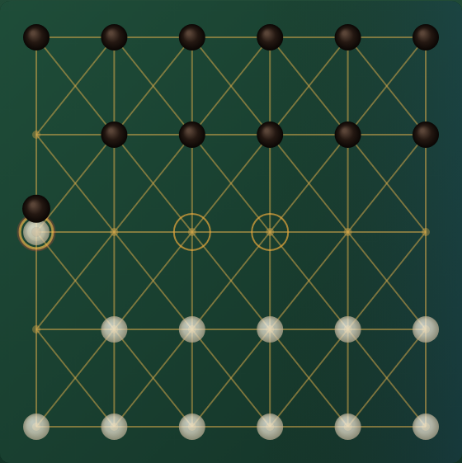
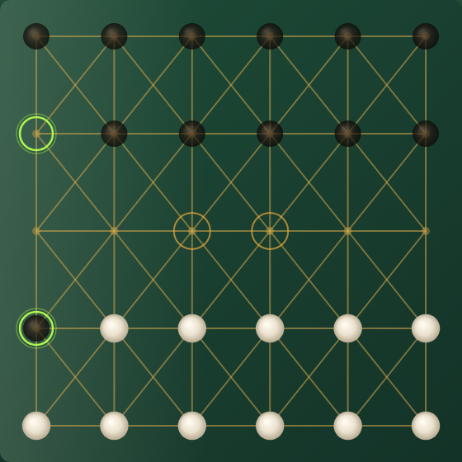
Coach Video 1: draw appendix, panel copy, prompts, and doc sync (good checkpoint).

diff --git a/PROJECTS/SmartBeads/src/playtest/web/feature/CoachVideoScript.ts b/PROJECTS/SmartBeads/src/playtest/web/feature/CoachVideoScript.ts
@@ -50,7 +50,7 @@ export const COACH_VIDEO_RESIGN_SEGMENT_START_MS =
   COACH_VIDEO_WIN_SEGMENT_START_MS + COACH_WIN_SEGMENT_DURATION_MS;
 
 export const COACH_RESIGN_SPEECH_TEXT =
-  'Resign. If a player resigns and the opponent declines, the resigning player loses. If the opponent agrees, it is a draw.';
+  'Resign. If a player resigns and the opponent declines, the resigning player loses.';
 
 export const COACH_RESIGN_DECLINED_CONGRATS_SPEECH =
   'Black bead won as white bead resign got declined.';
@@ -84,9 +84,32 @@ export const COACH_RESIGN_SEGMENT_DURATION_MS =
   + COACH_RESIGN_CONGRATS_PHASE_MS
   + 1_000;
 
+export const COACH_VIDEO_DRAW_SEGMENT_START_MS =
+  COACH_VIDEO_RESIGN_SEGMENT_START_MS + COACH_RESIGN_SEGMENT_DURATION_MS;
+
+export const COACH_DRAW_SPEECH_TEXT =
+  'Draw. If the opponent agrees to a resignation, the game is a draw.';
+
+export const COACH_DRAW_SPEECH_ESTIMATE_MS = estimateCoachSpeechMs(COACH_DRAW_SPEECH_TEXT);
+
+export const COACH_DRAW_POST_INTRO_MS = 500;
+
+export const COACH_DRAW_MODAL_PHASE_MS = 6_000;
+
+export const COACH_DRAW_RESULT_CUE_MS =
+  COACH_VIDEO_DRAW_SEGMENT_START_MS
+  + COACH_DRAW_SPEECH_ESTIMATE_MS
+  + COACH_DRAW_POST_INTRO_MS;
+
+export const COACH_DRAW_SEGMENT_DURATION_MS =
+  COACH_DRAW_SPEECH_ESTIMATE_MS
+  + COACH_DRAW_POST_INTRO_MS
+  + COACH_DRAW_MODAL_PHASE_MS
+  + 1_000;
+
 /** Total timeline length (ending appendix included). */
 export const COACH_VIDEO_DURATION_MS =
-  COACH_VIDEO_RESIGN_SEGMENT_START_MS + COACH_RESIGN_SEGMENT_DURATION_MS + 1_000;
+  COACH_VIDEO_DRAW_SEGMENT_START_MS + COACH_DRAW_SEGMENT_DURATION_MS + 1_000;
 
 /** @deprecated use COACH_VIDEO_RESIGN_SEGMENT_START_MS */
 const COACH_RESIGN_SEGMENT_START_MS = COACH_VIDEO_RESIGN_SEGMENT_START_MS;
@@ -170,7 +193,8 @@ export type CoachVideoCue =
         | 'resignDeclinedStatement'
         | 'resignDeclinedCongrats'
         | 'resignAgreedStatement'
-        | 'resignAgreedCongrats';
+        | 'resignAgreedCongrats'
+        | 'resignAcceptedDraw';
     }
   | { atMs: number; kind: 'closeResignOffer' }
   | { atMs: number; kind: 'showBanner'; title: string; durationMs?: number }
@@ -229,6 +253,7 @@ export const COACH_VIDEO_BASICS_SEGMENT_STARTS_MS = [0, 19_100, 37_940, 48_100] 
 export const COACH_VIDEO_ENDING_SEGMENT_STARTS_MS = [
   COACH_VIDEO_WIN_SEGMENT_START_MS,
   COACH_VIDEO_RESIGN_SEGMENT_START_MS,
+  COACH_VIDEO_DRAW_SEGMENT_START_MS,
 ] as const;
 export const COACH_VIDEO_SEGMENT_STARTS_MS = [
   ...COACH_VIDEO_BASICS_SEGMENT_STARTS_MS,
@@ -242,6 +267,7 @@ export const COACH_VIDEO_SEGMENT_BANNERS: CoachVideoSegmentBanner[] = [
   { atMs: 48_100, title: 'TRIPLE CAPTURE' },
   { atMs: COACH_VIDEO_WIN_SEGMENT_START_MS, title: 'WIN' },
   { atMs: COACH_VIDEO_RESIGN_SEGMENT_START_MS, title: 'RESIGN' },
+  { atMs: COACH_VIDEO_DRAW_SEGMENT_START_MS, title: 'DRAW' },
 ];
 
 const ANCHOR: readonly [number, Player][] = [[15, 'BLUE'], [19, 'BLUE']];
@@ -250,14 +276,15 @@ export const COACH_VIDEO: CoachVideoScript = {
   boardId: COACH_VIDEO_BOARD_ID,
   durationMs: COACH_VIDEO_DURATION_MS,
   title: 'How to play',
-  intro: '7-bead board. Watch three moves, three captures, then double and triple chain. Likewise you can capture four, five, or more beads in one turn while the chain stays open.',
+  intro: 'Smart Beads board. Watch move, capture, win, resign, and draw.',
   points: [
     'Move — slide one step to an empty node.',
     'Single capture — jump over one neighbour bead.',
     'Double capture — same bead jumps twice.',
     'Triple capture — same bead jumps three times; likewise four, five, or more while the chain stays open.',
     'Win — capture all opponent beads to win.',
-    'Resign — if a player resigns and the opponent declines, the resigning player loses; if the opponent agrees, it is a draw.',
+    'Resign — if a player resigns and the opponent declines, the resigning player loses.',
+    'Draw — if the opponent agrees to a resignation, the game is a draw.',
   ],
   keyframes: [
     kf(0, [[12, 'RED'], [16, 'RED'], [17, 'RED'], ...ANCHOR]),
@@ -291,6 +318,11 @@ export const COACH_VIDEO: CoachVideoScript = {
       [[4, 'RED'], [8, 'RED'], [12, 'BLUE'], [16, 'BLUE']],
       { RED: 2, BLUE: 2 },
     ),
+    kf(
+      COACH_VIDEO_DRAW_SEGMENT_START_MS,
+      [[4, 'RED'], [8, 'RED'], [12, 'BLUE'], [16, 'BLUE']],
+      { RED: 2, BLUE: 2 },
+    ),
   ],
   speeches: [
     {
@@ -304,6 +336,10 @@ export const COACH_VIDEO: CoachVideoScript = {
     {
       atMs: COACH_RESIGN_DECLINE_CONGRATS_MS,
       text: COACH_RESIGN_DECLINED_CONGRATS_SPEECH,
+    },
+    {
+      atMs: COACH_VIDEO_DRAW_SEGMENT_START_MS,
+      text: COACH_DRAW_SPEECH_TEXT,
     },
   ],
   highlights: [
@@ -386,6 +422,18 @@ export const COACH_VIDEO: CoachVideoScript = {
       atMs: COACH_RESIGN_DECLINE_CONGRATS_MS + COACH_RESIGN_CONGRATS_PHASE_MS,
       kind: 'hideModals',
     },
+    {
+      atMs: COACH_DRAW_RESULT_CUE_MS,
+      kind: 'result',
+      winner: 'DRAW',
+      captures: { RED: 2, BLUE: 2 },
+      snapshot: true,
+      phase: 'resignAcceptedDraw',
+    },
+    {
+      atMs: COACH_DRAW_RESULT_CUE_MS + COACH_DRAW_MODAL_PHASE_MS,
+      kind: 'hideModals',
+    },
   ],
   segmentBanners: COACH_VIDEO_SEGMENT_BANNERS,
 };
@@ -395,6 +443,20 @@ export function findCoachKeyframeAt(
   keyframes: readonly CoachVideoKeyframe[],
   _moves: readonly CoachVideoMove[] = [],
 ): CoachVideoKeyframe {
+  if (ms >= COACH_VIDEO_DRAW_SEGMENT_START_MS) {
+    let best = keyframes[0];
+    for (const entry of keyframes) {
+      if (
+        entry.atMs <= ms
+        && entry.atMs >= COACH_VIDEO_DRAW_SEGMENT_START_MS
+        && entry.atMs >= best.atMs
+      ) {
+        best = entry;
+      }
+    }
+    if (best.atMs >= COACH_VIDEO_DRAW_SEGMENT_START_MS) return best;
+  }
+
   if (ms >= COACH_VIDEO_RESIGN_SEGMENT_START_MS) {
     let best = keyframes[0];
     for (const entry of keyframes) {
@@ -485,6 +547,12 @@ export function coachSegmentBannerUntilMs(
   if (banner.title === 'RESIGN') {
     return Math.min(
       COACH_VIDEO_RESIGN_SEGMENT_START_MS + COACH_RESIGN_SPEECH_ESTIMATE_MS,
+      nextCap,
+    );
+  }
+  if (banner.title === 'DRAW') {
+    return Math.min(
+      COACH_VIDEO_DRAW_SEGMENT_START_MS + COACH_DRAW_SPEECH_ESTIMATE_MS,
       nextCap,
     );
   }

diff --git a/PROJECTS/SmartBeads/src/playtest/web/feature/__tests__/CoachVideoScript.test.ts b/PROJECTS/SmartBeads/src/playtest/web/feature/__tests__/CoachVideoScript.test.ts
@@ -26,7 +26,9 @@ import {
 
   COACH_VIDEO_WIN_SEGMENT_START_MS,
   COACH_VIDEO_RESIGN_SEGMENT_START_MS,
+  COACH_VIDEO_DRAW_SEGMENT_START_MS,
   COACH_RESIGN_DECLINE_CONGRATS_MS,
+  COACH_DRAW_RESULT_CUE_MS,
   COACH_WIN_CONGRATS_CUE_MS,
   COACH_WIN_CONGRATS_PHASE_MS,
   COACH_WIN_BOARD_PHASE_MS,
@@ -77,13 +79,13 @@ describe('CoachVideoScript Video 1 basics (7-bead)', () => {
 
     expect(COACH_VIDEO.moves).toHaveLength(11);
 
-    expect(COACH_VIDEO.speeches).toHaveLength(3);
+    expect(COACH_VIDEO.speeches).toHaveLength(4);
 
     expect(COACH_VIDEO.highlights).toHaveLength(11);
 
-    expect(COACH_VIDEO.points).toHaveLength(6);
+    expect(COACH_VIDEO.points).toHaveLength(7);
 
-    expect(COACH_VIDEO.segmentBanners).toHaveLength(6);
+    expect(COACH_VIDEO.segmentBanners).toHaveLength(7);
 
   });
 
@@ -163,6 +165,10 @@ describe('CoachVideoScript Video 1 basics (7-bead)', () => {
 
     });
 
+    expect(html).toContain('Smart Beads board');
+
+    expect(html).toMatch(/Watch move, capture, win, resign, and draw/i);
+
     expect(html).toContain('Triple capture');
 
     expect(html).toMatch(/four, five, or more/i);
@@ -171,7 +177,7 @@ describe('CoachVideoScript Video 1 basics (7-bead)', () => {
 
     expect(html).toMatch(/Resign —/);
 
-    expect(html).not.toMatch(/Draw —/);
+    expect(html).toMatch(/Draw —/);
 
   });
 
@@ -261,6 +267,8 @@ describe('CoachVideoScript Video 1 basics (7-bead)', () => {
 
     expect(coachSpeechForTime(COACH_RESIGN_DECLINE_CONGRATS_MS)).toMatch(/Black bead won/i);
 
+    expect(coachSpeechForTime(COACH_VIDEO_DRAW_SEGMENT_START_MS)).toMatch(/^Draw\./i);
+
   });
 
 
@@ -329,6 +337,28 @@ describe('CoachVideoScript Video 1 basics (7-bead)', () => {
 
 
 
+  it('draw segment reuses the balanced 2 vs 2 resign board', () => {
+    const draw = COACH_VIDEO.keyframes.find((k) => k.atMs === COACH_VIDEO_DRAW_SEGMENT_START_MS)!;
+    expect(draw.captures).toEqual({ RED: 2, BLUE: 2 });
+    expect(draw.occupants.filter((o) => o === 'RED')).toHaveLength(2);
+    expect(draw.occupants.filter((o) => o === 'BLUE')).toHaveLength(2);
+  });
+
+
+
+  it('resolves draw agreed cue after intro speech', () => {
+    const before = findCoachCueAtTime(COACH_DRAW_RESULT_CUE_MS - 100);
+    expect(before?.kind === 'result' && before?.phase === 'resignAcceptedDraw').toBe(false);
+    const drawCue = findCoachCueAtTime(COACH_DRAW_RESULT_CUE_MS + 100);
+    expect(drawCue?.kind).toBe('result');
+    if (drawCue?.kind === 'result') {
+      expect(drawCue.winner).toBe('DRAW');
+      expect(drawCue.phase).toBe('resignAcceptedDraw');
+    }
+  });
+
+
+
   it('resign segment reuses a balanced 2 vs 2 board for both demos', () => {
     const resign = COACH_VIDEO.keyframes.find((k) => k.atMs === COACH_VIDEO_ENDING_SEGMENT_STARTS_MS[1])!;
     expect(resign.captures).toEqual({ RED: 2, BLUE: 2 });
@@ -365,7 +395,7 @@ describe('CoachVideoScript Video 1 basics (7-bead)', () => {
 
     expect(formatCoachTime(0)).toBe('0:00');
 
-    expect(formatCoachTime(COACH_VIDEO_DURATION_MS)).toBe('1:43');
+    expect(formatCoachTime(COACH_VIDEO_DURATION_MS)).toBe('1:53');
 
   });
 

diff --git a/PROJECTS/SmartBeads/src/playtest/web/PlayController.ts b/PROJECTS/SmartBeads/src/playtest/web/PlayController.ts
@@ -560,6 +560,9 @@ export function bootstrapPlayShell(onReady?: () => void): void {
       if (phase === 'resignAgreedStatement') {
         resultTitle.textContent = 'RESIGNATION AGREED — DRAW';
         scoreLine = `${creamName} bead resigned; ${blackName} bead agreed. The game is a draw.`;
+      } else if (phase === 'resignAcceptedDraw') {
+        resultTitle.textContent = 'DRAW';
+        scoreLine = 'Black bead accepted resign.';
       } else if (phase === 'resignAgreedCongrats') {
         resultTitle.textContent = "WELL PLAYED! IT'S A DRAW";
         scoreLine = 'Draw — resignation agreed by both players.';
@@ -649,7 +652,7 @@ export function bootstrapPlayShell(onReady?: () => void): void {
         syncCoachVideoCue(cue);
       },
       onApplySegmentBanner: (banner) => {
-        if (banner && (banner.title === 'WIN' || banner.title === 'RESIGN')) {
+        if (banner && (banner.title === 'WIN' || banner.title === 'RESIGN' || banner.title === 'DRAW')) {
           const ms = coachVideoPlayer?.getTimeMs() ?? banner.atMs;
           clearMoveFeedback();
           applyCoachVideoKeyframe(

diff --git a/index.html b/index.html
@@ -46,7 +46,7 @@
         <div class="coach-video-controls">
           <button type="button" id="coach-play-btn" class="coach-video-btn">Play</button>
           <button type="button" id="coach-pause-btn" class="coach-video-btn is-hidden">Pause</button>
-          <input type="range" id="coach-scrub" class="coach-scrub" min="0" max="103323" value="0" step="100" aria-label="Coach video timeline" />
+          <input type="range" id="coach-scrub" class="coach-scrub" min="0" max="113088" value="0" step="100" aria-label="Coach video timeline" />
         </div>
         <div class="coach-voice-row">
           <span class="coach-speaking-label is-hidden" id="coach-speaking-label">Speaking…</span>

diff --git a/play-board.html b/play-board.html
@@ -18,7 +18,7 @@
         <div class="coach-video-controls">
           <button type="button" id="coach-play-btn" class="coach-video-btn">Play</button>
           <button type="button" id="coach-pause-btn" class="coach-video-btn is-hidden">Pause</button>
-          <input type="range" id="coach-scrub" class="coach-scrub" min="0" max="103323" value="0" step="100" aria-label="Coach video timeline" />
+          <input type="range" id="coach-scrub" class="coach-scrub" min="0" max="113088" value="0" step="100" aria-label="Coach video timeline" />
         </div>
         <div class="coach-voice-row">
           <span class="coach-speaking-label is-hidden" id="coach-speaking-label">Speaking…</span>

diff --git a/PROJECTS/SmartBeads/src/playtest/web/PlayHub.ts b/PROJECTS/SmartBeads/src/playtest/web/PlayHub.ts
@@ -30,7 +30,7 @@ function renderModePicker(boardId: ProductBoardId): string {
 function renderCoachPicker(): string {
   return `
     <div class="hub-mode-picker-title">Coach · Video 1 · 7-bead</div>
-    <p class="hub-coach-blurb">~1:30 SmartBeads coach video: moves, captures, then win, draw, and resign (by captured beads).</p>
+    <p class="hub-coach-blurb">~1:53 SmartBeads coach video: moves, captures, then win, resign, and draw.</p>
     <div class="hub-mode-actions">
       <button type="button" class="hub-mode-btn hub-mode-btn--coach" data-hub-action="coach">
         Start Coach

diff --git a/PROJECTS/SmartBeads/PROJECT_MAP_05P.md b/PROJECTS/SmartBeads/PROJECT_MAP_05P.md
@@ -117,9 +117,9 @@ Repo-root `index.html` is the Vite entry for the production play shell (`npm run
 Browser-based **shared play shell** rendered via Vite + TypeScript + canvas (`npm run web:smartbeads`). Board selection reads `BoardCatalog.ts`; only catalog entries with `playable: true` appear in the UI. Authoritative entry is the repository root `index.html`, not anything under `prototype/`.
 
 - **`main.ts`** — calls `bootstrapPlayShell()`.
-- **`PlayController.ts`** — left play panel (AI/human blocks, shot rings, match mm:ss), settings panel, timers, undo, honest AI, board `<select>`, start overlay (mode + START GAME), starter policy (human on Start; alternate on New game), result modal; canvas clicks through `FeatureSession.interpretClick`. **Coach mode:** watch-only ~48s video (play/pause/scrub); no board input.
-- **`PlayHub.ts`** — hub navigation; **Coach** sidebar + top card launches teaching video on 6×3×5 (`?coach=1` picker, `?coach=start` auto-launch).
-- **`feature/CoachVideoScript.ts`** — Video 1 basics on **7-bead** (~3 min): 3 slides, 3 single captures, double + triple chain; amber/lime highlight cues.
+- **`PlayController.ts`** — left play panel (AI/human blocks, shot rings, match mm:ss), settings panel, timers, undo, honest AI, board `<select>`, start overlay (mode + START GAME), starter policy (human on Start; alternate on New game), result modal; canvas clicks through `FeatureSession.interpretClick`. **Coach mode:** watch-only ~**1:53** video (play/pause/scrub); ending cues WIN / RESIGN / DRAW; no board input.
+- **`PlayHub.ts`** — hub navigation; **Coach** sidebar + top card launches teaching video on **7-bead · 4×5** (`?coach=1` picker, `?coach=start` auto-launch).
+- **`feature/CoachVideoScript.ts`** — Video 1 on **7-bead** (~**1:53**): basics + **WIN** / **RESIGN** / **DRAW** appendix; amber/lime highlights; scripted cues and TTS speeches.
 - **`feature/CoachVideoPlayer.ts`** — drives playback time, keyframe snaps, move animations, voice cues.
 - **`feature/CoachVoice.ts`** — browser TTS; mute and replay per segment.
 - **`feature/FeatureSession.ts`** — wraps `SmartBeadsEngine` with per-board `GameFeatureSettings`; turn interaction enforces selectable own beads, inert opponent beads, and landing-square capture execution. No 3-fold repetition in production.
@@ -222,6 +222,7 @@ Other files may exist under `VISION/` for personal use; they are not part of rep
 |------|------|
 | `AGENT_RULE_05P.md` | Canonical workflow, safety, Knowledge Classification, Engineering Principles |
 | `CURSOR_PROMPT_01.md` | Cursor implementer — code execution in this repository |
+| `SHEKHAR_PROMPT_01.md` | Human-side scope phrasing (narrow asks; avoid global words like “fix all mess”) |
 | `AGENT_ARCHITECT_01P.md` | In-repo architect agent (plan/review; no direct edits) |
 
 Single-owner rule — canonical text lives in `AGENT_RULE_05P.md` only:

diff --git a/PROJECTS/SmartBeads/GPT_PROJECT_AUDIT_05P.md b/PROJECTS/SmartBeads/GPT_PROJECT_AUDIT_05P.md
@@ -32,7 +32,7 @@ Enforcement text for Cursor agents lives in `.cursor/rules/smartbeads-core.mdc`,
 |--------------|-----------|----------------|
 | **7-board core** | `allBoards.smoke.test.ts`, `Board*.test.ts` (×7), `FeatureSession.turnControl.test.ts`, `v1GeometryCaptureAudit.test.ts` | All 7 product boards: legal select, Medium AI reply, reset/New game, capture geometry, turn control |
 | **Engine + parity** | `SmartBeadsEngine*.test.ts`, `BoardCatalog.test.ts`, `*PrototypeParity.test.ts` (×7), `SelfPlayRunner`, `HumanVsAiRunner` | Engine rules, catalog defaults, prototype geometry parity per board |
-| **Feature / settings** | `GameFeatureSettings`, `FeatureSession.*`, `clockPolicy`, `aiTurnPath`, `HonestAi.test`, `spectate`, `CoachVideoScript.test`, `CoachVideoPlayer.test`, `FeatureSession.coach.test` | Timers, center rules, resignation, AI level UI, **Watch AI** (spectate), **Coach** teaching video (watch-only, 6×3×5) |
+| **Feature / settings** | `GameFeatureSettings`, `FeatureSession.*`, `clockPolicy`, `aiTurnPath`, `HonestAi.test`, `spectate`, `CoachVideoScript.test`, `CoachVideoPlayer.test`, `CoachVoice.test`, `FeatureSession.coach.test` | Timers, center rules, resignation, AI level UI, **Watch AI** (spectate), **Coach** Video 1 (watch-only, **7-bead · 4×5**, ~1:53) |
 | **Shell / layout / audio** | `PlayController`, `playerBarShell`, `hubShell`, `viewportFit`, `creamCampRendersLower`, `CanvasBoardRenderer.moveFeedback`, `SoundEffects` | Settings DOM, cream-on-bottom, last-move rings, capture pulse, layout contracts |
 | **Slow AI — tiers** | `HonestAi.difficultyTiers.test.ts` | Easy/Medium/Hard behaviour, Medium soft-miss, 8×4×6 and 16 gates (~7 min alone) |
 | **Slow AI — search** | `HonestAi.searchCompletion.test.ts` | Expert (level 3) depth-2 completion on all 7 boards + 16 midgame |
@@ -44,6 +44,7 @@ Enforcement text for Cursor agents lives in `.cursor/rules/smartbeads-core.mdc`,
 | `m2-2step-observe.mjs` | 16-bead two-click slide (A41→A42 occupancy) |
 | `m2-capture-geometry-browser.mjs` | Real canvas clicks: captures, junction hops, Finish, inert opponent beads — all 7 boards |
 | `m2-2step-npm-gate.mjs` | Boots Vite if needed; runs both gates above (chained by `npm test`) |
+| `verify-coach-browser.mjs` | Coach panel + scrub max + intro copy at `?coach=start` (hub + play-board) |
 | `m2-*-browser-verify.mjs` | Per-board visual/gameplay checks |
 | `lab-ai-difficulty-eval.mjs` | HonestAi lab eval (not prototype `.cjs`) |
 

diff --git a/PROJECTS/SmartBeads/GPT_PROJECT_STATUS_01P.md b/PROJECTS/SmartBeads/GPT_PROJECT_STATUS_01P.md
@@ -95,7 +95,7 @@ All 7 production boards are registered in `BoardConfig.ts`, selectable in `Board
 |------|---------|
 | **AI levels 4–5** | **Fix/remove (UI done)** — Settings + coach show **1–2–3** only; HonestAi still accepts 4–5 if passed in code |
 | **Watch AI / spectate UX** | **OK (2026-09-04)** — start screen **Watch AI**; Settings **Watch AI level** + **AI level**; cream **Watch AI · level** / black **AI · level**; amber preview before each hop |
-| **Coach (teaching mode)** | **OK (2026-09-05)** — Video 1 basics on **7-bead** (~3 min): **3 slides**, **3 single captures**, **double + triple chain**; amber/lime highlights; play/pause/scrub; watch-only; hub `?coach=start`. Video 2 (timers/centre) **pending**. **Browser sign-off:** UNCONFIRMED |
+| **Coach (teaching mode)** | **OK (2026-09-06)** — Video 1 on **7-bead · 4×5** (~**1:53**): move + single/double/triple capture; ending appendix **WIN** (decline glow) · **RESIGN** (below-board glow, decline congrats) · **DRAW** (resign agreed modal); left panel intro + bullets; play/pause/scrub; watch-only; `?coach=start`. Video 2 (timers/centre) **pending**. **Coach browser smoke:** CONFIRMED (`verify-coach-browser.mjs` 2026-09-06). **Human full watch-through:** UNCONFIRMED |
 | **Settings game mode** | **OK (2026-09)** — removed from right panel; start screen only |
 | **AI level control** | **OK (Jest)** — `playerBarShell` + `GameFeatureSettings`; **UNCONFIRMED** human browser sign-off |
 | **Expert think time** | **Inform** — can block UI up to ~45s on 16; needs “thinking…” or cap |

diff --git a/VISION/SHEKHAR_PROMPT_01.md b/VISION/SHEKHAR_PROMPT_01.md
@@ -1,0 +1,19 @@
+# SHEKHAR_PROMPT_01.md
+
+Human-side companion to `VISION/CURSOR_PROMPT_01.md`. Agent rules: `.cursor/rules/instruction-fidelity.mdc`.
+
+The agent is a machine. It matches **patterns** and **literal words**. **“All” means all.** It does not share human memory after a handoff.
+
+**Before you ask for edits:** say **what** (one thing), **where** (segment / file / “audio only”), and **out of scope** (“rest don’t touch”). Then **`Go — …`** only if the agent’s scope block matches.
+
+**Avoid alone:** fix all mess, fix everything, clean up, polish, just fix it, you know what I mean, go (with no scope). These sound like the whole page or whole repo.
+
+**Say instead:** “Resign segment only: duplicate audio + missing glow. Rest don’t touch. Go when scope matches.”
+
+**Not approval:** silence, frustration, bravo, old context, “fix all mess” without naming the place.
+
+**If you slip into human chat:** the agent should ask one short question — “Which part only?” — not start editing.
+
+**Quick check:** one behaviour named? out of scope said? **Go** if you want edits? If not, say **plan only / no edit**.
+
+You own the product. Narrow words + **Go** = good milestones.

diff --git a/VISION/CURSOR_PROMPT_01.md b/VISION/CURSOR_PROMPT_01.md
@@ -120,6 +120,8 @@ Always verify before claiming completion.
 
 # Human communication (authoritative — `.mdc` hooks only)
 
+Human-side phrasing and scope habits: `VISION/SHEKHAR_PROMPT_01.md` (avoid global words like “fix all mess”; agent reads **all** literally).
+
 Write so a non-engineer can follow on first read.
 
 - **Answer first** — direct reply to what they asked; no audit dumps or nested sub-lists unless they asked for depth.
